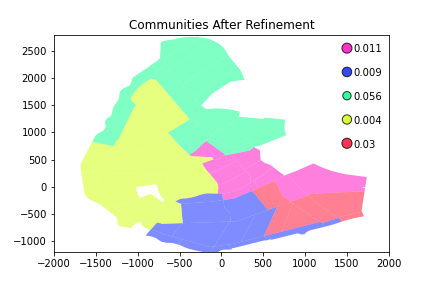
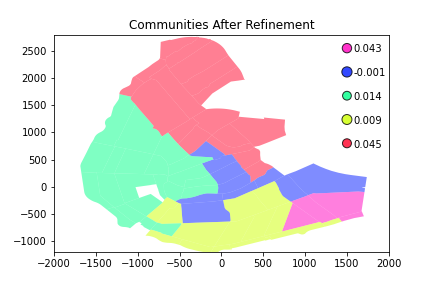
Bug fix and adding education levels

diff --git a/inputData.py b/inputData.py
@@ -53,10 +53,13 @@ class InputData:
 
         # Extract relevant variables and store as class variables
         self.neighbourhoods = data[:,1]  # neighbourhood names
-        self.Socioeconomic_data = tf.Variable(np.array(data[:,3].tolist()).astype(np.float32)[:],
+        self.neighbourhood_codes = data[:,2]  # neighbourhood codes
+        self.Population = tf.Variable(np.array(data[:,3].tolist()).astype(np.float32)[:],
+                                      trainable=False, dtype=tf.float32) # Number of households per neighbourhood
+        self.Education = tf.transpose(tf.Variable([data[:,4], data[:,5], data[:,6]],
+                                                  trainable=False, dtype=tf.float32)) # education levels Low, Medium, High
+        self.Socioeconomic_data = tf.Variable(np.array(data[:,7].tolist()).astype(np.float32)[:],
                                               trainable=False, dtype=tf.float32) # Socio-economic value of the region
-        self.Population = tf.Variable(np.array(data[:,2].tolist()).astype(np.float32)[:],
-                                           trainable=False, dtype=tf.float32) # Number of households per neighbourhood
         self.Locations = None      # locations yet to be 
         self.N = self.Socioeconomic_data.shape[0]
         
@@ -90,6 +93,37 @@ class InputData:
                                            trainable=False, dtype=tf.float32) # Number of households per neighbourhood
         self.Locations = None      # locations yet to be 
         self.N = self.Socioeconomic_data.shape[0]
+        
+    '''
+    def load_miscData(self, path):
+        """
+        Loads the miscalenous data from the file that can be downloaded from  
+        https://www.cbs.nl/nl-nl/maatwerk/2011/48/kerncijfers-wijken-en-buurten-2011
+
+        Parameters
+        ----------
+        path : str
+            The path from which to load the file.
+
+        """
+        # read in the file using pandas
+        df = pd.read_excel(path)
+        
+        # select only the rows that have neighbourhoods from the list
+        df = df[df['GWB_NAAM11_60pos'].isin(self.neighbourhoods)]
+        
+        # reorder the rows based on the order of neighbourhoods in the list
+        df = df.set_index('GWB_NAAM11_60pos')
+        df = df.loc[self.neighbourhoods]
+        
+        # select the columns you're interested in
+        pop_sex = df[['AANT_MAN', 'AANT_VROUW']]
+        pop_age = df[['P_00_14_JR', 'P_15_24_JR', 'P_25_44_JR', 'P_45_64_JR', 'P_65_EO_JR']]
+        
+        # convert the selected columns to arrays
+        pop_sex = tf.Variable(pop_sex.to_numpy(), dtype=tf.int32, trainable=False)
+        pop_age = tf.Variable(pop_age.to_numpy(), dtype=tf.int32, trainable=False)
+    '''   
         
     
     def load_geo_data(self, filename):
@@ -202,15 +236,17 @@ class InputData:
         self.GeometryGrid = MappedPolygons
 
 
-    
 
-    def buurt_filter(self, loadGeometry=False):
+    def buurt_filter(self, loadGeometry=True, devmode=False):
         """
         Filters the socio-economic data based on whether the neighbourhoods are present in the geopandas data and 
         stores the relevant data in class variables.
         
         Args:
-            None
+            loadGeometry: bool
+                boolean that allows geometry to be loaded. Default is True.
+            devmode: bool
+                boolean that allows for error messages when loading buurten. Default is False.
         
         Returns:
             None
@@ -238,29 +274,33 @@ class InputData:
             the second column represents its latitude.
         """
         
-        index=[]
-        Socioeconomic_data=[]
-        Population=[]
-        neighbourhoods=[]
+        ## Load the shapes from buurten gdf
         Geometry=[]
-        i=0
-        print("WARNING: GDF CAN ONLY FIND BUURTEN AND NOT WIJKEN OR CITIES. THEREFORE, A LOT OF DATA WILL BE MISSING:")
+        if devmode: print("WARNING: GDF CAN ONLY FIND BUURTEN AND NOT WIJKEN OR CITIES. THEREFORE, A LOT OF DATA WILL BE MISSING:")
         if loadGeometry:
             truefalse=False # used to check if the loc is found in the gdf file
             for loc in self.neighbourhoods:
                 for buurt in range(self.gdf.buurtnaam.shape[0]):
                     try:
                         if self.gdf.buurtnaam[buurt][0]==loc:
+                            truefalse=True
                             Geometry.append(self.gdf.geometry[buurt])
                             break
                     except:
                         break
 
-            if not truefalse: # check if wijk was not found
-                print("1. Warning:",loc,"has not been found in gdf data. Check if instance should have been found")
+                if devmode and not truefalse: # check if wijk was not found
+                    print("1. Warning:",loc,"has not been found in gdf data. Check if instance should have been found")
     
             self.Geometry = Geometry
         
+        
+        # filter data for info that exists as a buurt
+        i=0
+        index=[]
+        Socioeconomic_data=[]
+        Population=[]
+        neighbourhoods=[]
         for loc in self.neighbourhoods:
             truefalse=False # used to check if the loc is found in the gdf file
             j = 0
@@ -278,10 +318,10 @@ class InputData:
                 except:
                     break
 
-            if not truefalse: # check if wijk was not found
+            if devmode and not truefalse: # check if wijk was not found
                 print("2. Warning:",loc,"has not been found in gdf data. Check if instance should have been found")
     
-                i+=1
+            i+=1
                 
             
         # save all in arrays

diff --git a/load_inputData.py b/load_inputData.py
@@ -12,19 +12,22 @@ from geopy.geocoders import Nominatim
 from inputData import InputData
 
 #%% Load data
-if True: # loading the geoData takes too long so this way I only have to do it once
-    # Source: https://opendata.cbs.nl/statline/#/CBS/nl/dataset/85163NED/table?ts=1669130926836
-    # Download the file named "CSV met statistische symbolen"
-    inputData = InputData("Data/SES_WOA_scores_per_wijk_en_buurt_08032023_175111.csv")
-    
-    
-    # Source: https://www.atlasleefomgeving.nl/kaarten
-    inputData.load_geo_data('Data/wijkenbuurten_2022_v1.GPKG')
-    inputData.buurt_filter(loadGeometry=True)
-    
-else: 
-    inputData.reload_path("Data/SES_WOA_scores_per_wijk_en_buurt_08032023_175111.csv")
-    inputData.buurt_filter(loadGeometry=True)
+# Source: https://opendata.cbs.nl/statline/#/CBS/nl/dataset/85163NED/table?dl=87DE5
+# Download the file named "CSV met statistische symbolen" for the buurten you want
+# We are interested in the subjects 
+#   Regiocode (gemeente)
+#   Particuliere huishoudens (Aantal)
+#   Opleidingsniveau/Laag/Waarde (%)
+#   Opleidingsniveau/Middelbaar/Waarde (%)
+#   Opleidingsniveau/Hoog/Waarde (%)
+#   SES-WOA/Totaalscore/Gemiddelde score (Getal)"
+inputData = InputData("Data/SES_WOA_scores_per_wijk_en_buurt_06042023_163218.csv")
+
+
+#%%
+# Source: https://www.atlasleefomgeving.nl/kaarten
+inputData.load_geo_data('Data/wijkenbuurten_2022_v1.GPKG')
+inputData.buurt_filter(loadGeometry=True, devmode=True)
 
 
 #%% Translate locations to a grid

diff --git a/mainGeo.py b/mainGeo.py
@@ -111,4 +111,5 @@ if True:
     fig01.savefig(fname="Output/01_CommunitiesBeforeRefinement")
     fig02.savefig(fname="Output/02_CommunitiesAfterRefinement")
     fig1.savefig(fname="Output/03_CostOtimizationPlot")
+
     fig2.savefig(fname="Output/04_SESbarplot")

diff --git a/Data/README.md b/Data/README.md
@@ -29,8 +29,24 @@ Nabijheid_voorzieningen__buurt_2021_10022023_162519.csv
 
 - From https://opendata.cbs.nl/statline/#/CBS/nl/dataset/85231NED/table?ts=1669130108033
 	
-SES_WOA_scores_per_wijk_en_buurt_10022023_163026.csv
+SES_WOA_scores_per_wijk_en_buurt_06042023_163218.cvs
 
 - Economic data per area. Important because this is what we optimise right now.
 
-- From https://opendata.cbs.nl/statline/#/CBS/nl/dataset/85163NED/table?ts=1669130926836
+- Source: https://opendata.cbs.nl/statline/#/CBS/nl/dataset/85163NED/table?dl=87DE5
+
+- Download the file named "CSV met statistische symbolen" for the buurten you want
+
+- We are interested in the subjects 
+
+	- Regiocode (gemeente)
+
+	- Particuliere huishoudens (Aantal)
+
+	- Opleidingsniveau/Laag/Waarde (%)
+
+	- Opleidingsniveau/Middelbaar/Waarde (%)
+
+	- Opleidingsniveau/Hoog/Waarde (%)
+	
+	- SES-WOA/Totaalscore/Gemiddelde score (Getal)"
